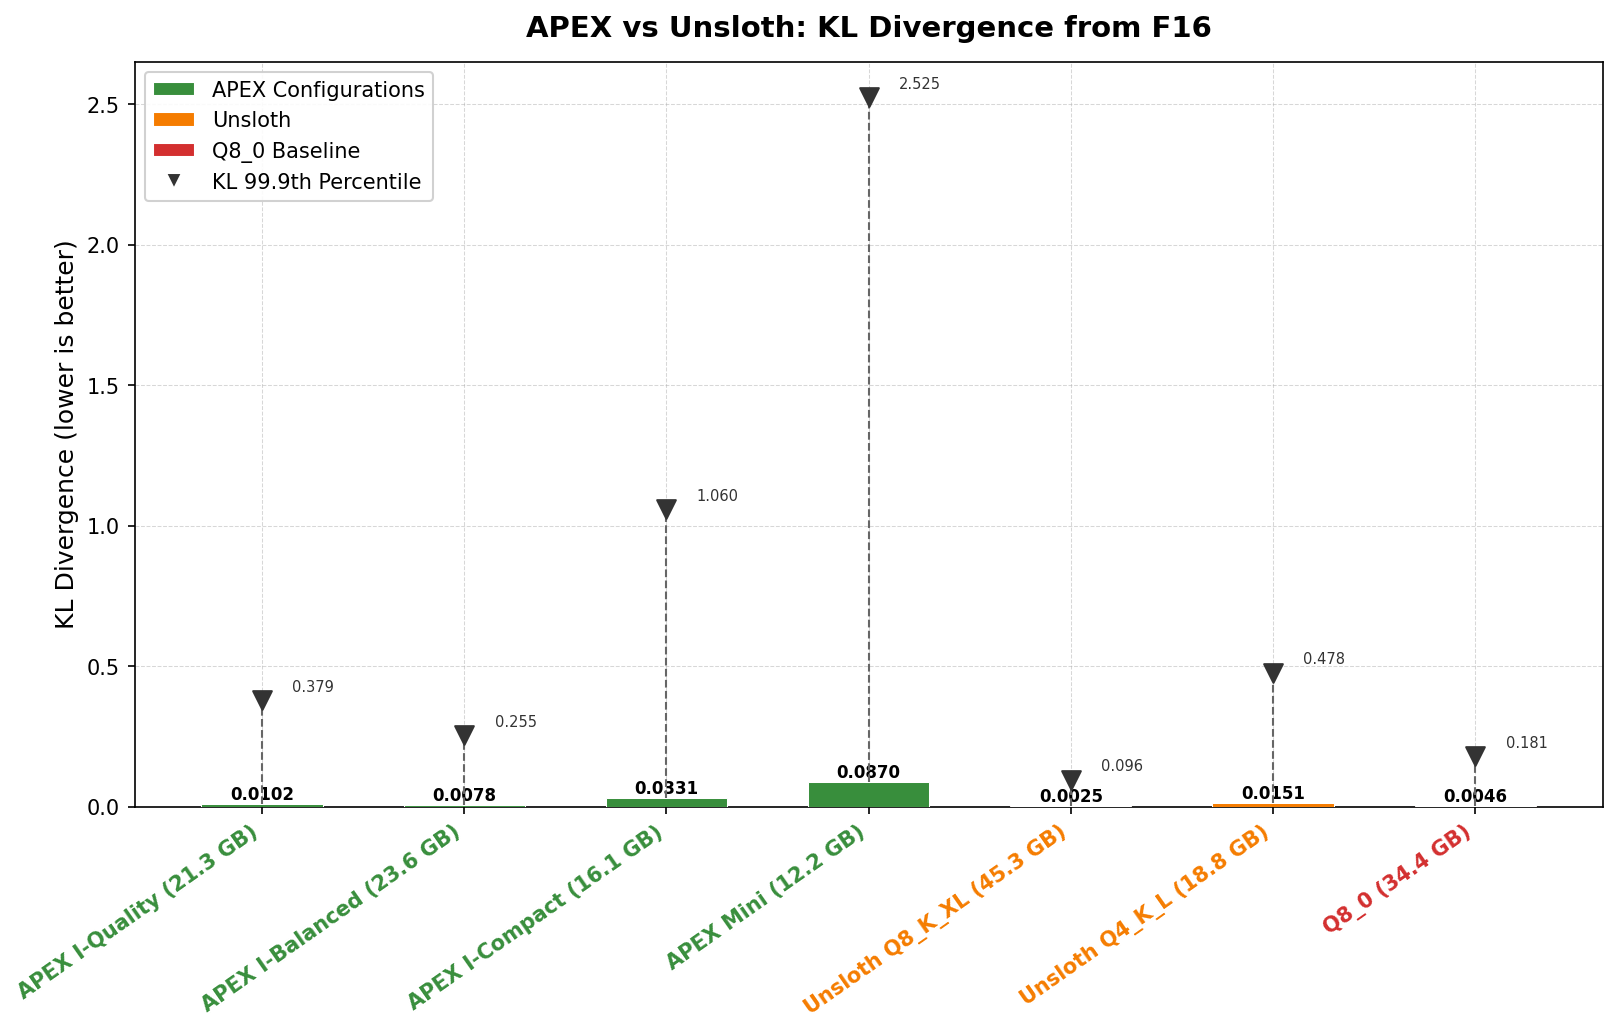
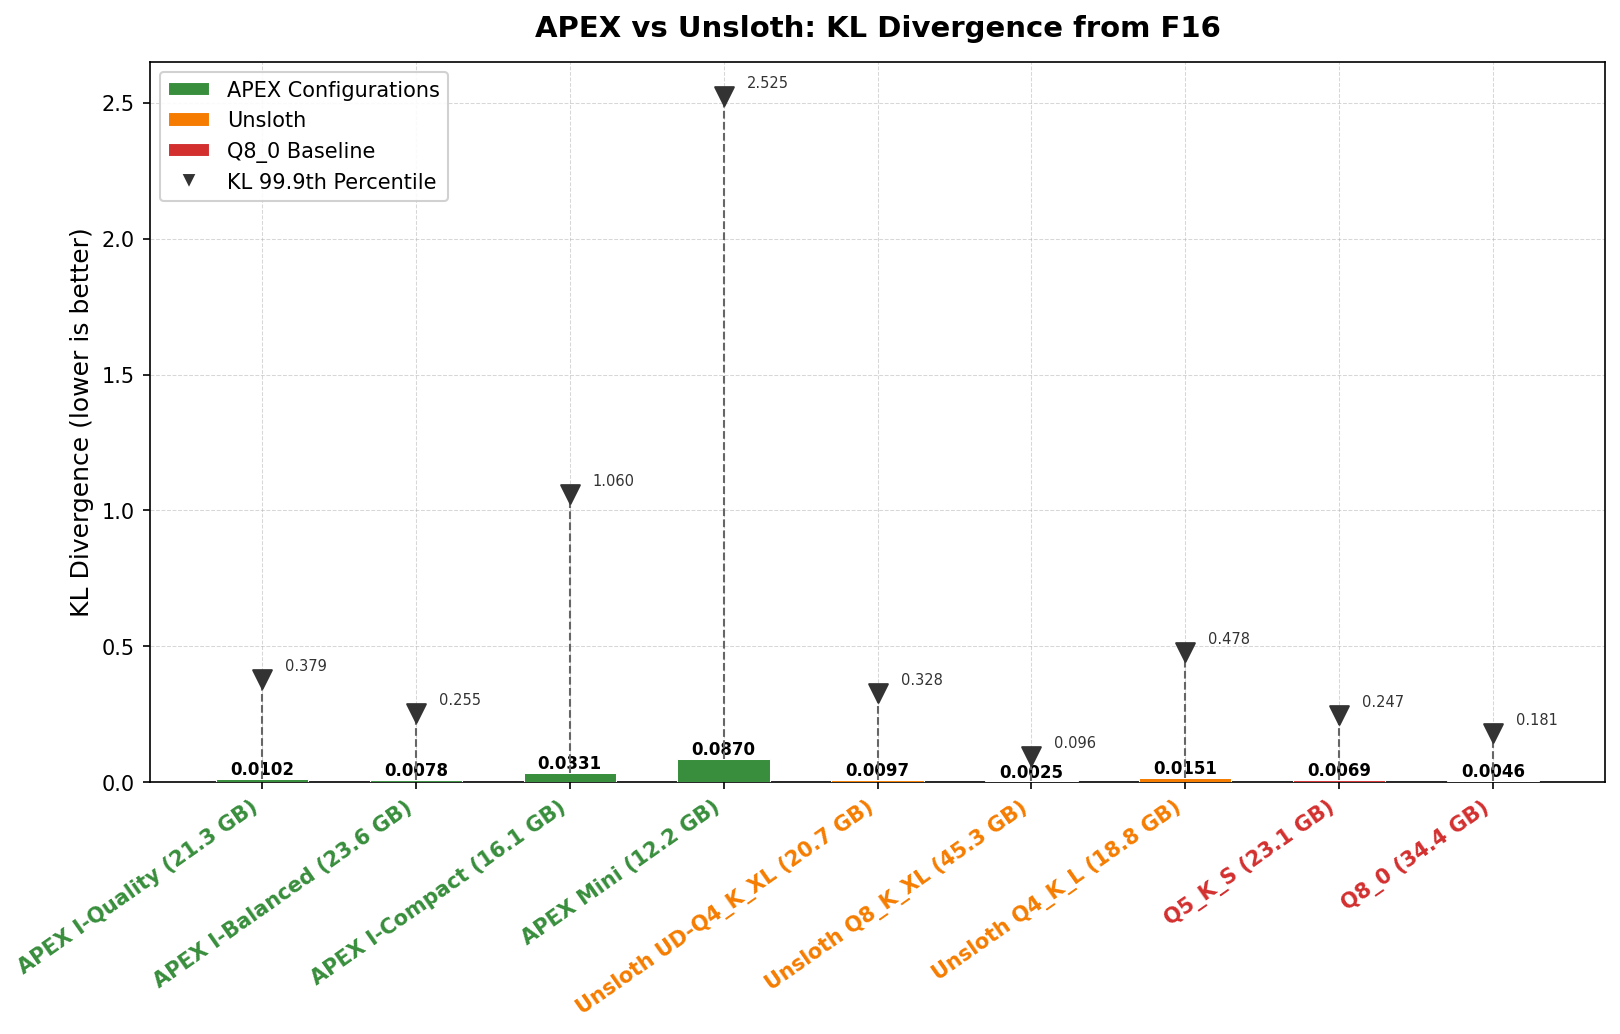
Fix KL plot: add UD-Q4_K_XL and Q5_K_S to comparison charts

diff --git a/scripts/plot_benchmarks.py b/scripts/plot_benchmarks.py
@@ -661,8 +661,10 @@ def plot_kl_apex_vs_unsloth(models, output_dir):
         "APEX I-Balanced (23.6 GB)",
         "APEX I-Compact (16.1 GB)",
         "APEX Mini (12.2 GB)",
+        "Unsloth UD-Q4_K_XL (20.7 GB)",
         "Unsloth Q8_K_XL (45.3 GB)",
         "Unsloth Q4_K_L (18.8 GB)",
+        "Q5_K_S (23.1 GB)",
         "Q8_0 (34.4 GB)",
     ]
 
@@ -672,8 +674,10 @@ def plot_kl_apex_vs_unsloth(models, output_dir):
         "APEX I-Balanced (23.6 GB)":    "#388E3C",
         "APEX I-Compact (16.1 GB)":     "#388E3C",
         "APEX Mini (12.2 GB)":          "#388E3C",
+        "Unsloth UD-Q4_K_XL (20.7 GB)":"#F57C00",
         "Unsloth Q8_K_XL (45.3 GB)":   "#F57C00",
         "Unsloth Q4_K_L (18.8 GB)":    "#F57C00",
+        "Q5_K_S (23.1 GB)":            "#D32F2F",
         "Q8_0 (34.4 GB)":              "#D32F2F",
     }
 
